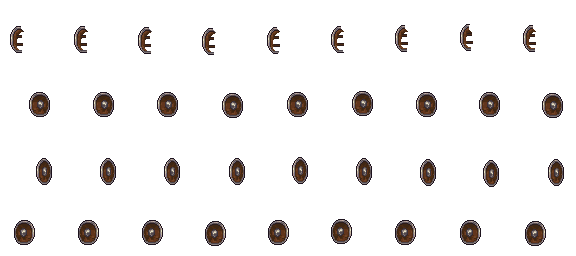
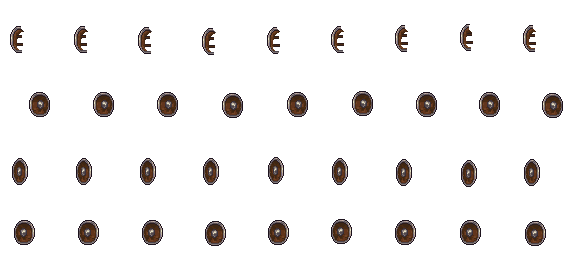
fix: corrigir slashAssetPath do wooden shield overlay e adicionar sprite slash
Aponta slashAssetPath para assets/slash/ em vez de assets/walkcycle/,
e adiciona a sprite WEAPON_shield_cutout_body.png na pasta slash.

diff --git a/frontend/mmo-frontend/src/config/overlays/shieldOverlayRegistry.ts b/frontend/mmo-frontend/src/config/overlays/shieldOverlayRegistry.ts
@@ -5,7 +5,7 @@ export const SHIELD_OVERLAY_REGISTRY: Record<string, ArmorOverlayConfig> = {
         walkTextureKey: 'shield_wooden_walk',
         walkAssetPath: 'assets/walkcycle/WEAPON_shield_cutout_body.png',
         slashTextureKey: 'shield_wooden_slash',
-        slashAssetPath: 'assets/walkcycle/WEAPON_shield_cutout_body.png',
+        slashAssetPath: 'assets/slash/WEAPON_shield_cutout_body.png',
         frameWidth: 64,
         frameHeight: 64,
         walkDirectionFrames:  { north: [1, 8], west: [10, 17], south: [19, 26], east: [28, 35] },
